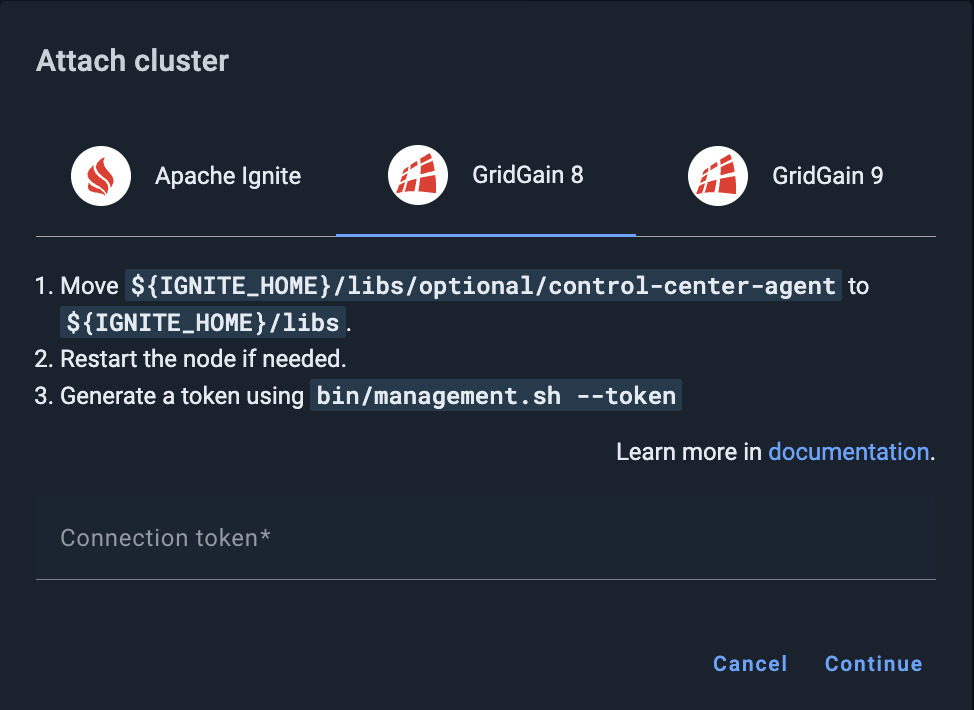
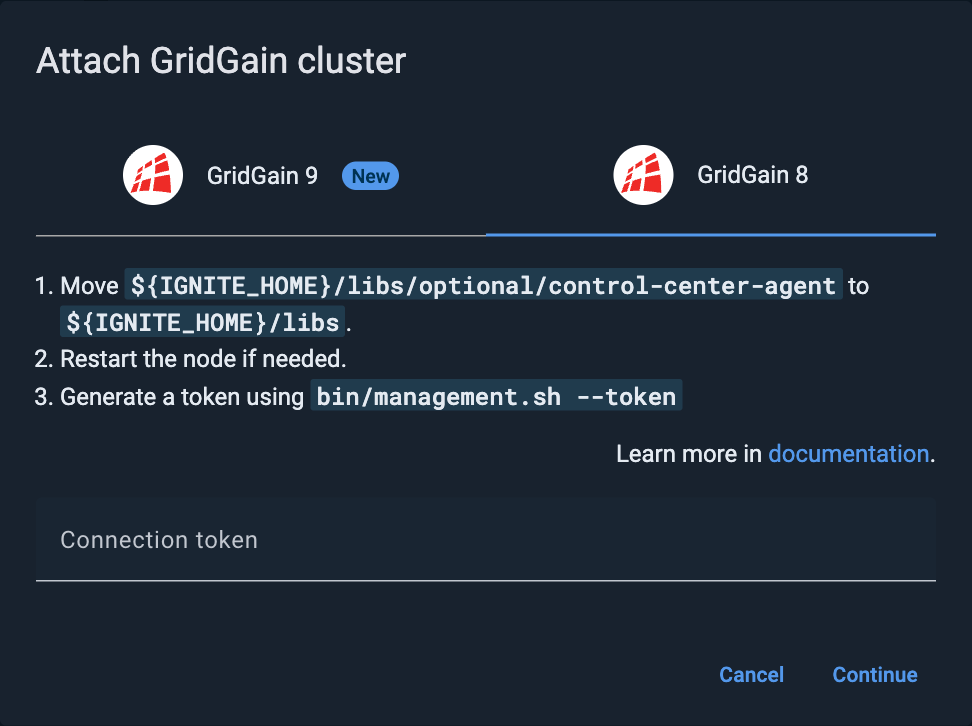
update pages and screenshots mentioning Ignite

diff --git a/tools/enterprise/control-center/getting-started/connect/README.md b/tools/enterprise/control-center/getting-started/connect/README.md
@@ -1,7 +1,6 @@
 ---
 description: >-
-  Attaching GridGain 8 and GridGain 9 clusters to GridGain Control Center, and
-  which clusters Control Center monitors.
+  Attaching GridGain 8 and GridGain 9 clusters to GridGain Control Center.
 hidden: true
 ---
 
@@ -12,7 +11,7 @@ Control Center is designed to work with GridGain 8 and GridGain 9 clusters you r
 This section describes how you can attach clusters to Control Center.
 
 {% hint style="warning" %}
-Control Center does not monitor Apache Ignite 2, Apache Ignite 3, or GridGain Community Edition clusters. For these clusters, Control Center does not collect metrics and blocks cluster actions, and the cluster remains in the cluster list with the data that Control Center has already saved. The only action available is updating the cluster license. A banner on every page reads: "Monitoring is not supported for Apache Ignite and GridGain Community Edition clusters. Update your license to Enterprise or Ultimate Edition."
+Control Center does not monitor Apache Ignite 2, Apache Ignite 3, or GridGain Community Edition clusters. They stay in the cluster list with the data already saved, and the only available action is updating the license to Enterprise or Ultimate Edition.
 {% endhint %}
 
 {% content-ref url="connect-gridgain9-cluster.md" %}

diff --git a/tools/enterprise/control-center/getting-started/demo.md b/tools/enterprise/control-center/getting-started/demo.md
@@ -130,7 +130,7 @@ SELECT * FROM Trade ORDER BY order_date DESC LIMIT 10;
 
 ## Next Steps
 
-Now you have a working cluster with some simulated load. Feel free to explore and try various Control Center features. GridGain nodes you launched are running GridGain Community, but you can do the same steps by starting Apache Ignite or GridGain Ultimate nodes.
+Now you have a working cluster with some simulated load. Feel free to explore and try various Control Center features. The demo nodes run GridGain Community Edition. To monitor your own cluster, you need a GridGain 8 or GridGain 9 cluster with an Enterprise or Ultimate Edition license. To obtain one, [contact support](../support.md).
 
 To explore more Control Center features you can:
 

diff --git a/tools/enterprise/control-center/gg8/queries/README.md b/tools/enterprise/control-center/gg8/queries/README.md
@@ -6,7 +6,7 @@ hidden: true
 
 # Queries Screen
 
-This section describes the Queries screen. Its layout and functionality changes between the GridGain 8 and GridGain 9 clusters.
+This section describes the Queries screen. Its layout and functionality change between the GridGain 8 and GridGain 9 clusters.
 
 {% hint style="info" %}
 Depending on configuration, [secured clusters](../auth/authorization-permissions.md) might require a cluster-level authentication for some (or all) of the actions.

diff --git a/tools/enterprise/control-center/gg9/events/events.md b/tools/enterprise/control-center/gg9/events/events.md
@@ -1,7 +1,7 @@
 ---
 description: >-
-  Viewing, filtering, and inspecting GridGain 9 and Apache Ignite 3 cluster
-  events on the Control Center Events screen.
+  Viewing, filtering, and inspecting GridGain 9 cluster events on the Control
+  Center Events screen.
 hidden: true
 ---
 
